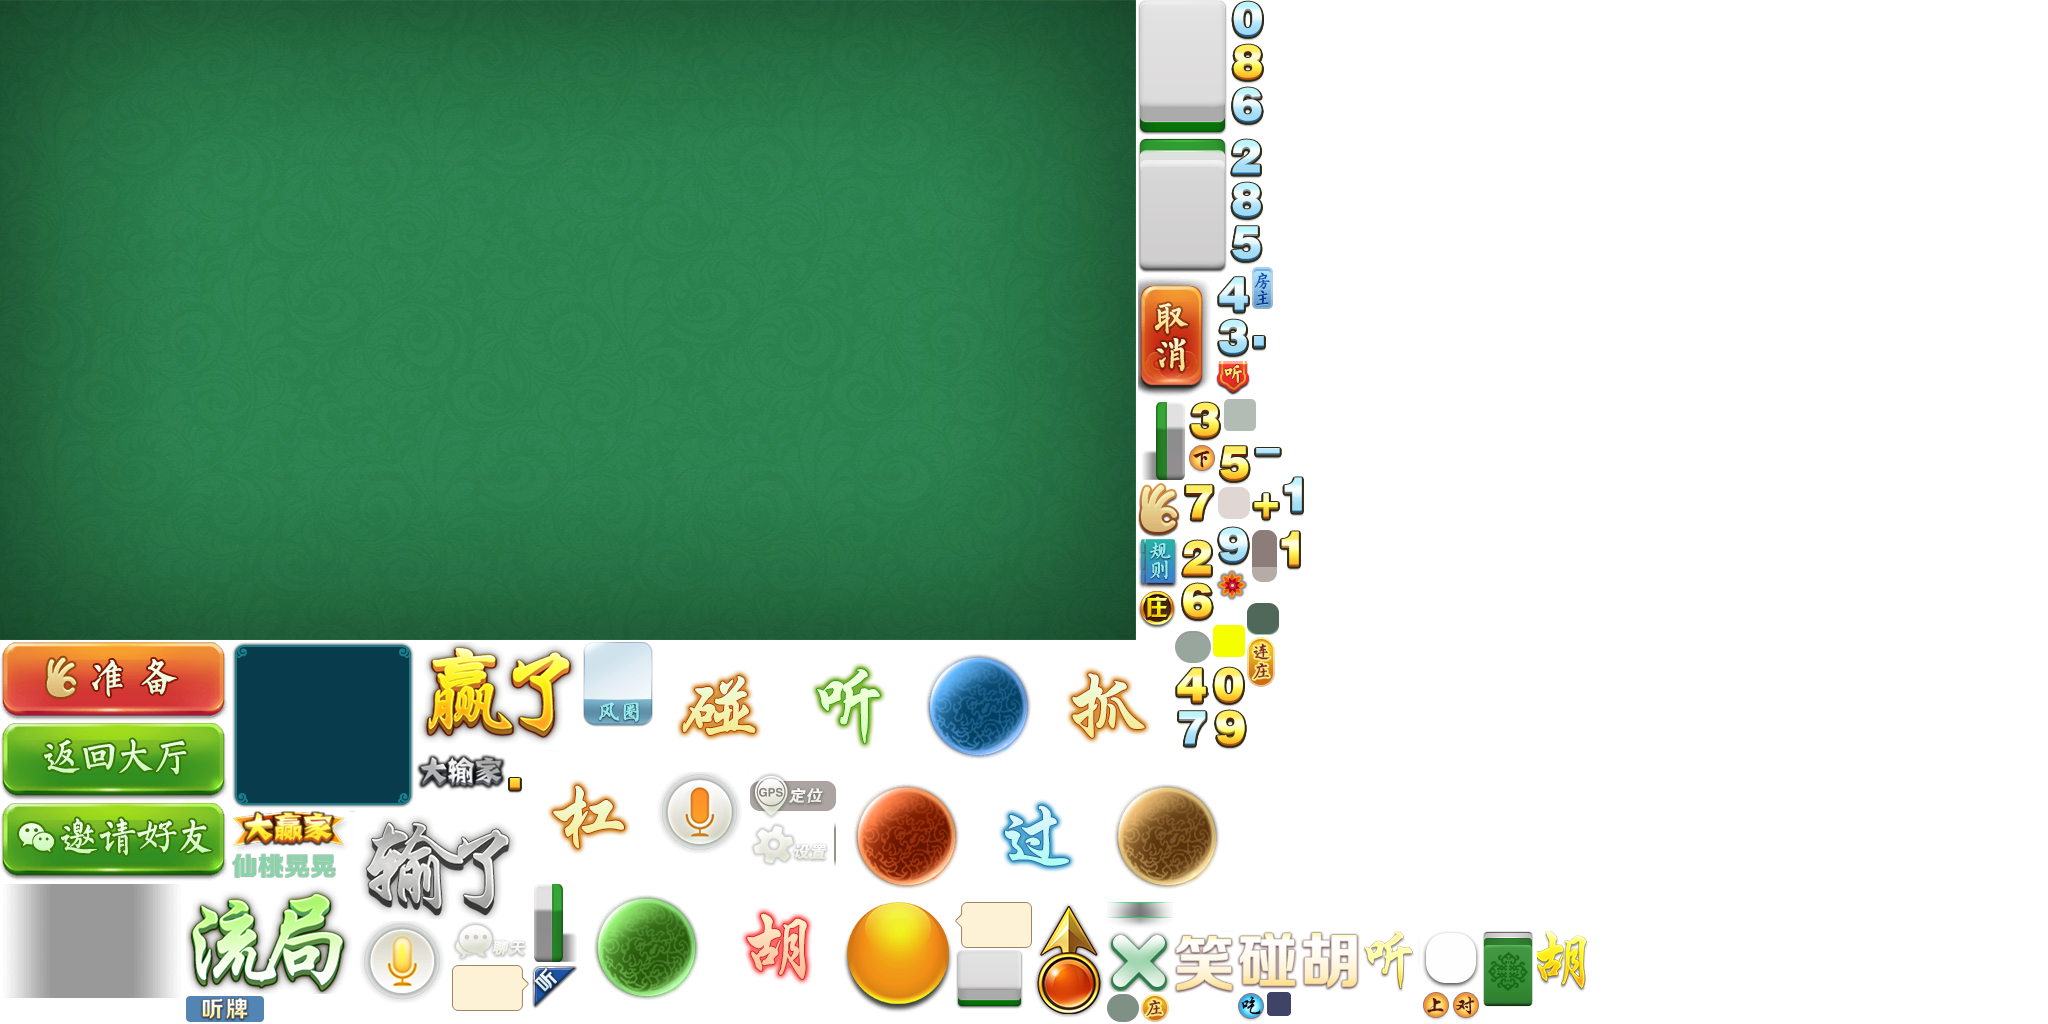
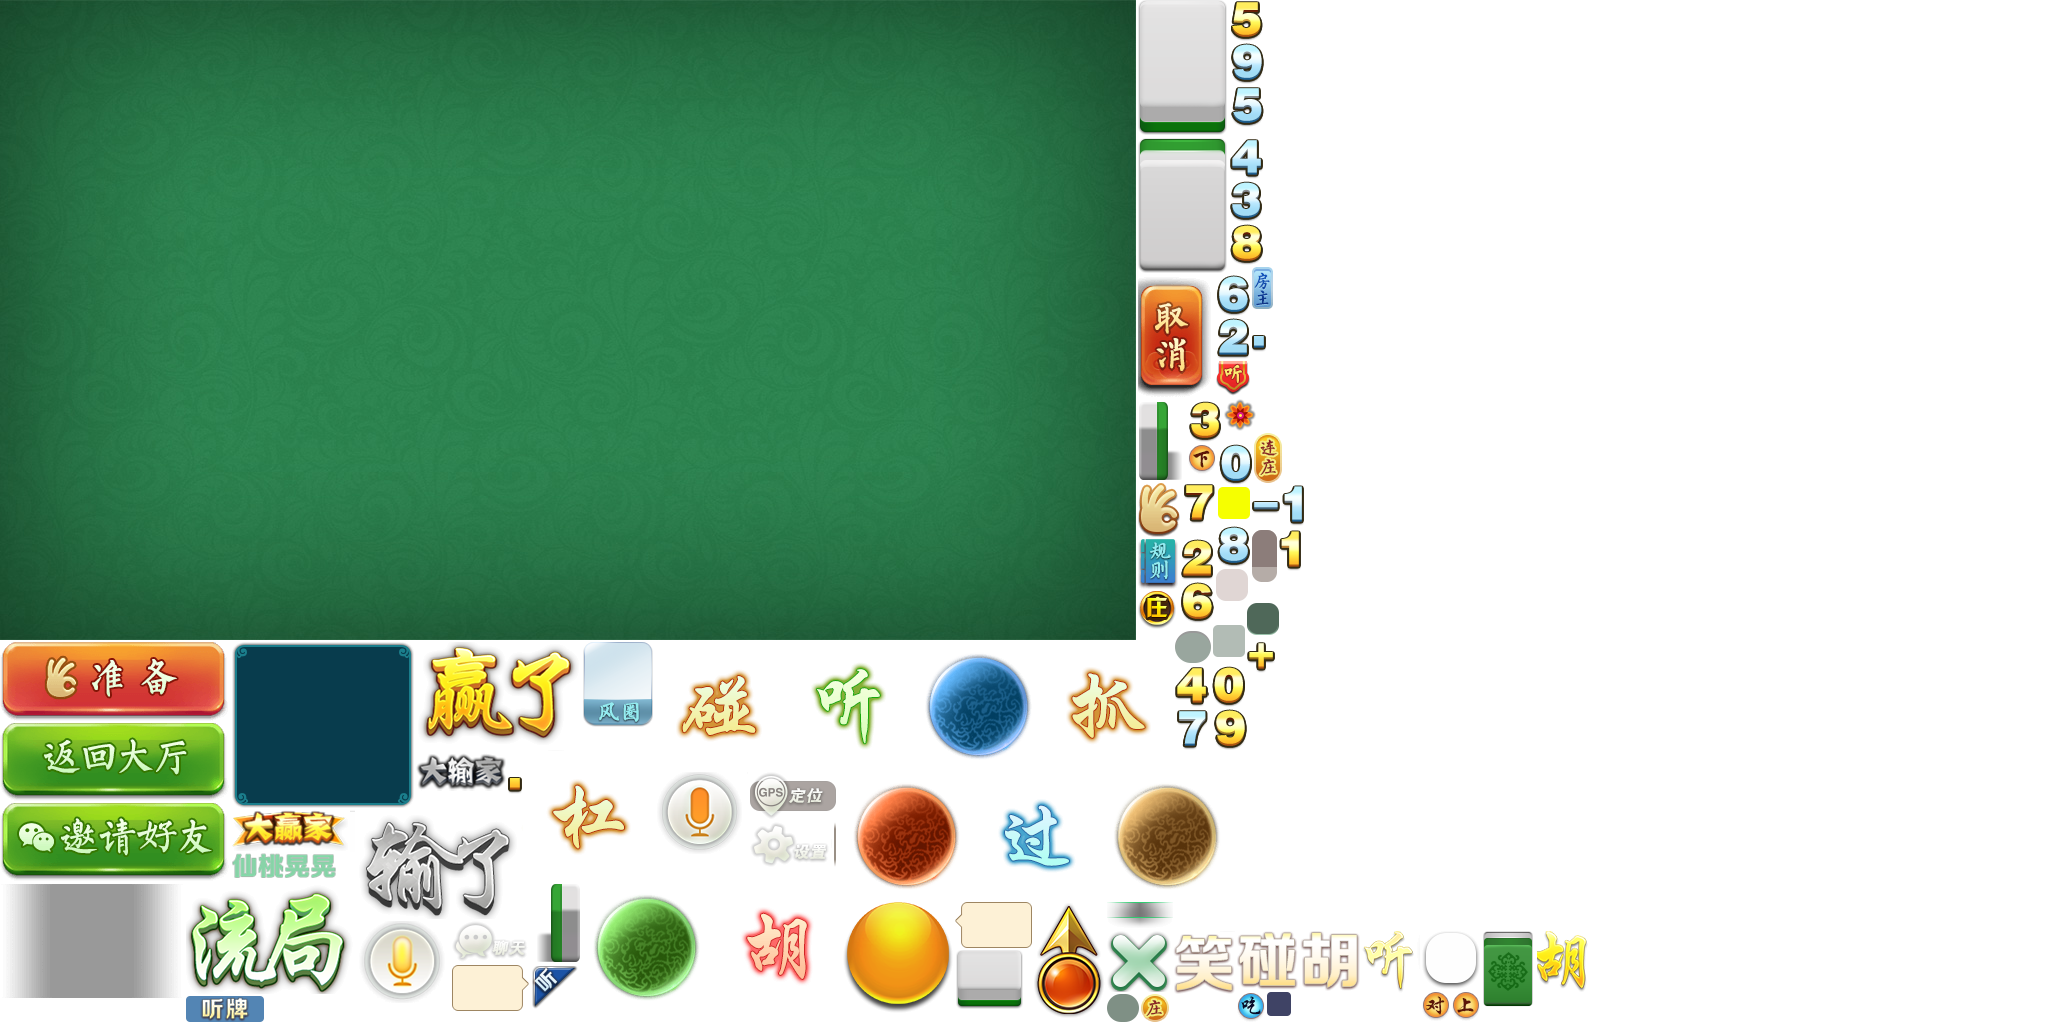
庄 位置调整

diff --git a/assets/Script/modules/gameb/RoomView.ts b/assets/Script/modules/gameb/RoomView.ts
@@ -459,8 +459,6 @@ export class RoomView {
     }
 
     private initOtherView(): void {
-        // 房间号
-        this.roomInfoText = this.unityViewNode.getChild("roomInfo");
         // 风圈和当前操作玩家指示箭头roundMarkArrow
         const roundMarks: fgui.GObject[] = [];
         this.roundMarkView = this.unityViewNode.getChild("roundMask").asCom;
@@ -496,8 +494,6 @@ export class RoomView {
         this.countDownText = this.roundMarkView.getChild("num");
         //道具
         this.donateMoveObj = this.unityViewNode.getChild("donate").asLoader;
-        //剩牌
-        this.tilesInWall = this.unityViewNode.getChild("tilesInWall");
         //庄家动画挂载节点
         this.zhuangPos = this.unityViewNode.getChild("zhuangPos");
         //其他动画挂载节点
@@ -505,6 +501,13 @@ export class RoomView {
         //弃碰弃杠 提示
         this.cancelCom = this.unityViewNode.getChild("cancelCom").asCom;
         this.cancelComText = this.cancelCom.getChild("text");
+
+        //为了兼容界面 房间信息 跟 余牌text  放在了 player1里面
+        const player1 = this.unityViewNode.getChild(`player1`).asCom;
+        // 房间号
+        this.roomInfoText = player1.getChild("roomInfo");
+        //剩牌
+        this.tilesInWall = player1.getChild("tilesInWall");
     }
 
     //初始化房间状态事件
